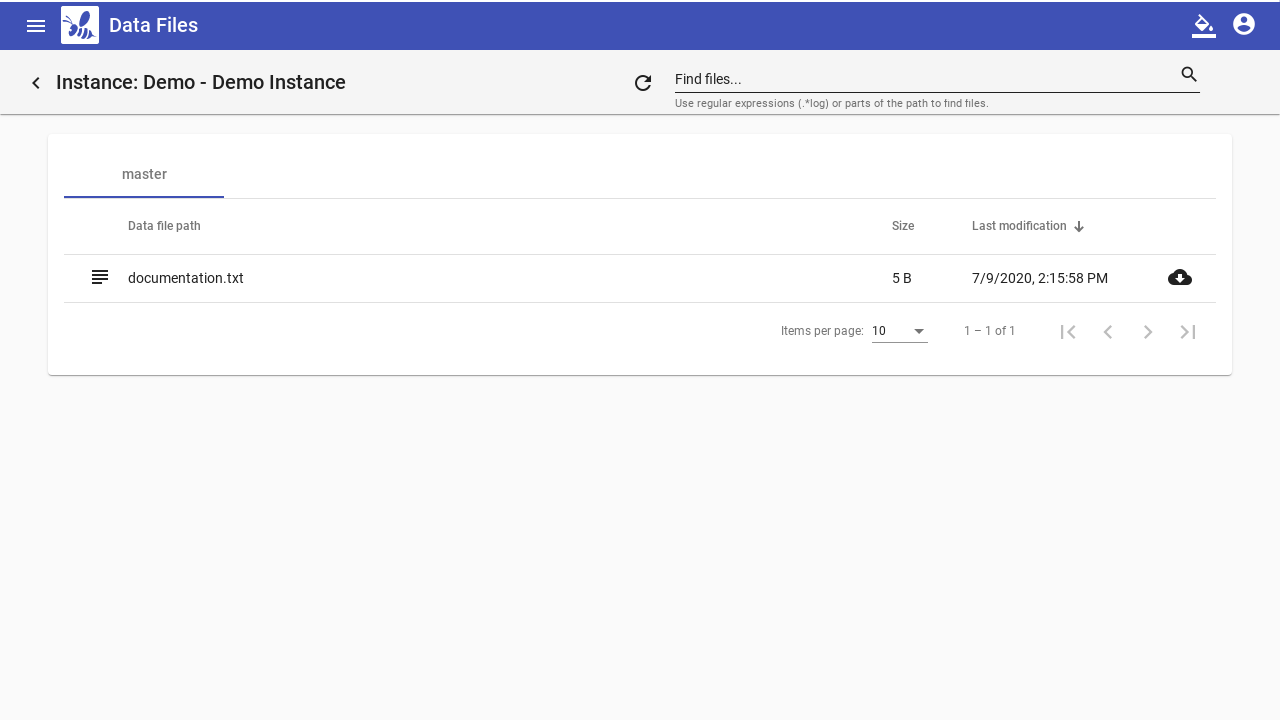
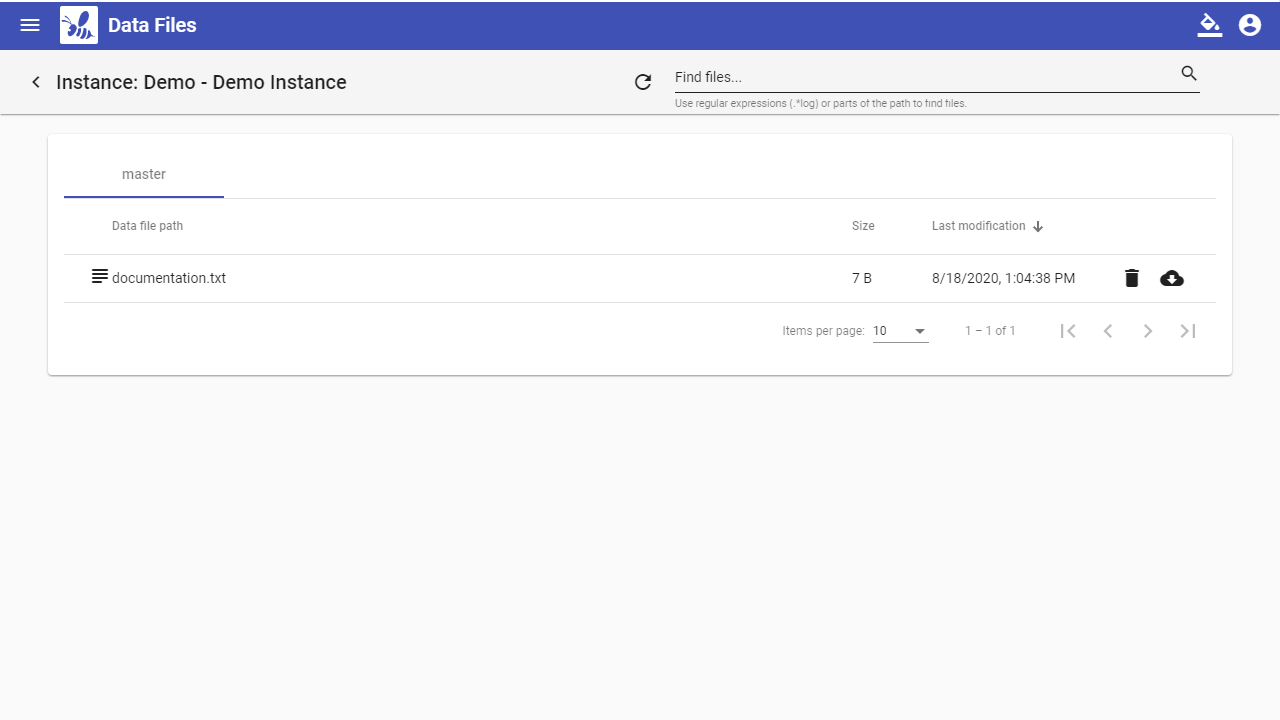
Ability to delete data files
Requires ADMIN capability for now, to secure files

Request: DCS-1125

diff --git a/ui/webapp/src/app/modules/instance/components/data-files-browser/data-files-browser.component.ts b/ui/webapp/src/app/modules/instance/components/data-files-browser/data-files-browser.component.ts
@@ -8,7 +8,10 @@ import { MatTable, MatTableDataSource } from '@angular/material/table';
 import { MatTabChangeEvent } from '@angular/material/tabs';
 import { ActivatedRoute } from '@angular/router';
 import { Observable, of } from 'rxjs';
+import { AuthenticationService } from 'src/app/modules/core/services/authentication.service';
 import { RoutingHistoryService } from 'src/app/modules/core/services/routing-history.service';
+import { MessageBoxMode } from 'src/app/modules/shared/components/messagebox/messagebox.component';
+import { MessageboxService } from 'src/app/modules/shared/services/messagebox.service';
 import { InstanceConfiguration, InstanceDirectory, InstanceDirectoryEntry, StringEntryChunkDto } from '../../../../models/gen.dtos';
 import { DownloadService } from '../../../shared/services/download.service';
 import { InstanceService } from '../../services/instance.service';
@@ -37,7 +40,7 @@ export class DataFilesBrowserComponent implements OnInit {
   @ViewChild(MatSort)
   sort: MatSort;
 
-  public displayedColumns: string[] = ['icon', 'path', 'size', 'lastModified', 'download'];
+  public displayedColumns: string[] = ['icon', 'path', 'size', 'lastModified', 'delete', 'download'];
 
   public instanceVersion: InstanceConfiguration;
   public instanceDirectories: InstanceDirectory[];
@@ -57,7 +60,9 @@ export class DataFilesBrowserComponent implements OnInit {
     private instanceService: InstanceService,
     public location: Location,
     private dlService: DownloadService,
-    public routingHistoryService:RoutingHistoryService,
+    public routingHistoryService: RoutingHistoryService,
+    public authService: AuthenticationService,
+    private mbService: MessageboxService,
   ) {}
 
   public ngOnInit(): void {
@@ -97,6 +102,17 @@ export class DataFilesBrowserComponent implements OnInit {
   public download(instanceDirectory: InstanceDirectory, instanceDirectoryEntry: InstanceDirectoryEntry) {
     this.instanceService
       .downloadDataFileContent(this.groupParam, this.uuidParam, instanceDirectory, instanceDirectoryEntry);
+  }
+
+  public async delete(instanceDirectory: InstanceDirectory, instanceDirectoryEntry: InstanceDirectoryEntry) {
+    const confirm = await this.mbService.openAsync({title: 'Confirm Delete', message: `Really delete ${instanceDirectoryEntry.path}?`, mode: MessageBoxMode.CONFIRM_WARNING});
+    if (!confirm) {
+      return;
+    }
+    this.instanceService
+      .deleteDataFile(this.groupParam, this.uuidParam, instanceDirectory, instanceDirectoryEntry).subscribe(_ => {
+        this.reload();
+      });
   }
 
   private downloadFile(filename: string, data: string): void {

diff --git a/ui/webapp/src/app/modules/instance/components/data-files-browser/data-files-browser.component.html b/ui/webapp/src/app/modules/instance/components/data-files-browser/data-files-browser.component.html
@@ -53,9 +53,14 @@
                 <td mat-cell *matCellDef="let entry" class="lastModified-column">{{formatLastModified(entry.lastModified)}}</td>
               </ng-container>
 
+              <ng-container matColumnDef="delete">
+                <th scope="col" mat-header-cell *matHeaderCellDef></th>
+                <td mat-cell *matCellDef="let entry" align="right"><button mat-icon-button (click)="delete(instanceDirectory, entry)" [disabled]="!authService.isScopedAdmin(this.groupParam)"><mat-icon>delete</mat-icon></button></td>
+              </ng-container>
+
               <ng-container matColumnDef="download">
                 <th scope="col" mat-header-cell *matHeaderCellDef></th>
-                <td mat-cell *matCellDef="let entry" align="right"><mat-icon class="icon-column" (click)="download(instanceDirectory, entry)">cloud_download</mat-icon></td>
+                <td mat-cell *matCellDef="let entry" align="right"><button mat-icon-button (click)="download(instanceDirectory, entry)"><mat-icon>cloud_download</mat-icon></button></td>
               </ng-container>
 
               <tr mat-header-row *matHeaderRowDef='displayedColumns'></tr>

diff --git a/ui/webapp/src/app/modules/instance/services/instance.service.ts b/ui/webapp/src/app/modules/instance/services/instance.service.ts
@@ -258,6 +258,12 @@ export class InstanceService {
     });
   }
 
+  public deleteDataFile(instanceGroupName: string, instanceName: string, id: InstanceDirectory, ide: InstanceDirectoryEntry) {
+    const url: string = this.buildInstanceUrl(instanceGroupName, instanceName) + '/delete/' + id.minion;
+    this.log.debug('deleteDataFile');
+    return this.http.post(url, ide);
+  }
+
   public createClickAndStartDescriptor(
     instanceGroupName: string,
     instanceName: string,

diff --git a/ui/webapp/src/app/modules/instance/components/application-edit/application-edit.component.css b/ui/webapp/src/app/modules/instance/components/application-edit/application-edit.component.css
@@ -95,7 +95,7 @@ mat-form-field {
   row-gap: 5px;
 
   grid-template-columns: auto auto auto;
-  grid-auto-rows: 30px;
+  grid-auto-rows: minmax(30px, auto);
   align-items: center;
 }
 

diff --git a/ui/webapp/src/app/modules/instance/components/application-descriptor-detail/application-descriptor-detail.component.css b/ui/webapp/src/app/modules/instance/components/application-descriptor-detail/application-descriptor-detail.component.css
@@ -1,7 +1,7 @@
 .info-list {
   display: grid;
   grid-template-columns: auto auto;
-  grid-auto-rows: 30px;
+  grid-auto-rows: minmax(30px, auto);
 
   align-items: center;
 

diff --git a/ui/webapp/src/app/modules/instance/components/data-files-browser/data-files-browser.component.css b/ui/webapp/src/app/modules/instance/components/data-files-browser/data-files-browser.component.css
@@ -26,11 +26,6 @@
   width: 100%;
 }
 
-.icon-column {
-  min-width: 40px;
-  cursor: pointer;
-}
-
 .wide-column {
   width: 100%;
   cursor: pointer;

diff --git a/ui/src/main/java/io/bdeploy/ui/api/impl/InstanceResourceImpl.java b/ui/src/main/java/io/bdeploy/ui/api/impl/InstanceResourceImpl.java
@@ -852,6 +852,18 @@ public class InstanceResourceImpl implements InstanceResource {
     }
 
     @Override
+    public void deleteDataFile(String instanceId, String minion, InstanceDirectoryEntry entry) {
+        InstanceManifest im = readInstance(instanceId, entry.tag);
+        if (im == null) {
+            throw new WebApplicationException("Cannot load " + instanceId + ":" + entry.tag, Status.NOT_FOUND);
+        }
+
+        RemoteService svc = mp.getControllingMaster(hive, im.getManifest());
+        MasterRootResource root = ResourceProvider.getVersionedResource(svc, MasterRootResource.class, context);
+        root.getNamedMaster(group).deleteDataEntry(minion, entry);
+    }
+
+    @Override
     public Response getContentStream(String instanceId, String token) {
         EntryRequest rq = iesrs.consumeRequestToken(token);
 

diff --git a/interfaces/src/main/java/io/bdeploy/interfaces/remote/MasterNamedResource.java b/interfaces/src/main/java/io/bdeploy/interfaces/remote/MasterNamedResource.java
@@ -130,6 +130,14 @@ public interface MasterNamedResource {
     public Response getEntryStream(@QueryParam("m") String minion, InstanceDirectoryEntry entry);
 
     /**
+     * @param minion the minion the entry refers to.
+     * @param entry the actual entry to delete.
+     */
+    @POST
+    @Path("/deleteDataEntry")
+    public void deleteDataEntry(@QueryParam("m") String minion, InstanceDirectoryEntry entry);
+
+    /**
      * @param instanceId the deployment/instance uuid
      * @param application the application id
      * @return the applications configuration
@@ -268,4 +276,5 @@ public interface MasterNamedResource {
     @GET
     @Path("/runtimeHistory")
     public Map<String, MinionRuntimeHistoryDto> getRuntimeHistory(@QueryParam("u") String instanceId);
+
 }

diff --git a/minion/src/main/java/io/bdeploy/minion/remote/jersey/MasterNamedResourceImpl.java b/minion/src/main/java/io/bdeploy/minion/remote/jersey/MasterNamedResourceImpl.java
@@ -667,6 +667,16 @@ public class MasterNamedResourceImpl implements MasterNamedResource {
     }
 
     @Override
+    public void deleteDataEntry(String minion, InstanceDirectoryEntry entry) {
+        RemoteService svc = root.getMinions().getRemote(minion);
+        if (svc == null) {
+            throw new WebApplicationException("Cannot find minion " + minion, Status.NOT_FOUND);
+        }
+        SlaveDeploymentResource sdr = ResourceProvider.getVersionedResource(svc, SlaveDeploymentResource.class, context);
+        sdr.deleteDataEntry(entry);
+    }
+
+    @Override
     public ClientApplicationConfiguration getClientConfiguration(String uuid, String application) {
         String activeTag = getInstanceState(uuid).activeTag;
         if (activeTag == null) {

diff --git a/ui/src/main/java/io/bdeploy/ui/api/InstanceResource.java b/ui/src/main/java/io/bdeploy/ui/api/InstanceResource.java
@@ -180,6 +180,12 @@ public interface InstanceResource {
     public String getContentStreamRequest(@ActivityScope @PathParam("instance") String instanceId,
             @PathParam("minion") String minion, InstanceDirectoryEntry entry);
 
+    @POST
+    @Path("/{instance}/delete/{minion}")
+    @RequiredPermission(permission = Permission.ADMIN)
+    public void deleteDataFile(@ActivityScope @PathParam("instance") String instanceId, @PathParam("minion") String minion,
+            InstanceDirectoryEntry entry);
+
     @GET
     @Unsecured
     @Path("/{instance}/stream/{token}")

diff --git a/minion/src/main/java/io/bdeploy/minion/remote/jersey/SlaveDeploymentResourceImpl.java b/minion/src/main/java/io/bdeploy/minion/remote/jersey/SlaveDeploymentResourceImpl.java
@@ -330,6 +330,16 @@ public class SlaveDeploymentResourceImpl implements SlaveDeploymentResource {
     }
 
     @Override
+    public void deleteDataEntry(InstanceDirectoryEntry entry) {
+        Path actual = getEntryPath(entry);
+        try {
+            Files.delete(actual);
+        } catch (IOException e) {
+            throw new WebApplicationException("Could not delete data file " + entry.path, e);
+        }
+    }
+
+    @Override
     public Map<Integer, Boolean> getPortStates(List<Integer> ports) {
         Map<Integer, Boolean> result = new TreeMap<>();
 

diff --git a/interfaces/src/main/java/io/bdeploy/interfaces/remote/SlaveDeploymentResource.java b/interfaces/src/main/java/io/bdeploy/interfaces/remote/SlaveDeploymentResource.java
@@ -90,6 +90,13 @@ public interface SlaveDeploymentResource {
     public Response getEntryStream(InstanceDirectoryEntry entry);
 
     /**
+     * @param entry the entry to delete from the data directory.
+     */
+    @POST
+    @Path("/dataDir/deleteEntry")
+    public void deleteDataEntry(InstanceDirectoryEntry entry);
+
+    /**
      * @param ports the ports to check whether they are open/used or not on the machine
      * @return a state for each port, true for 'used', false for 'free'.
      */
